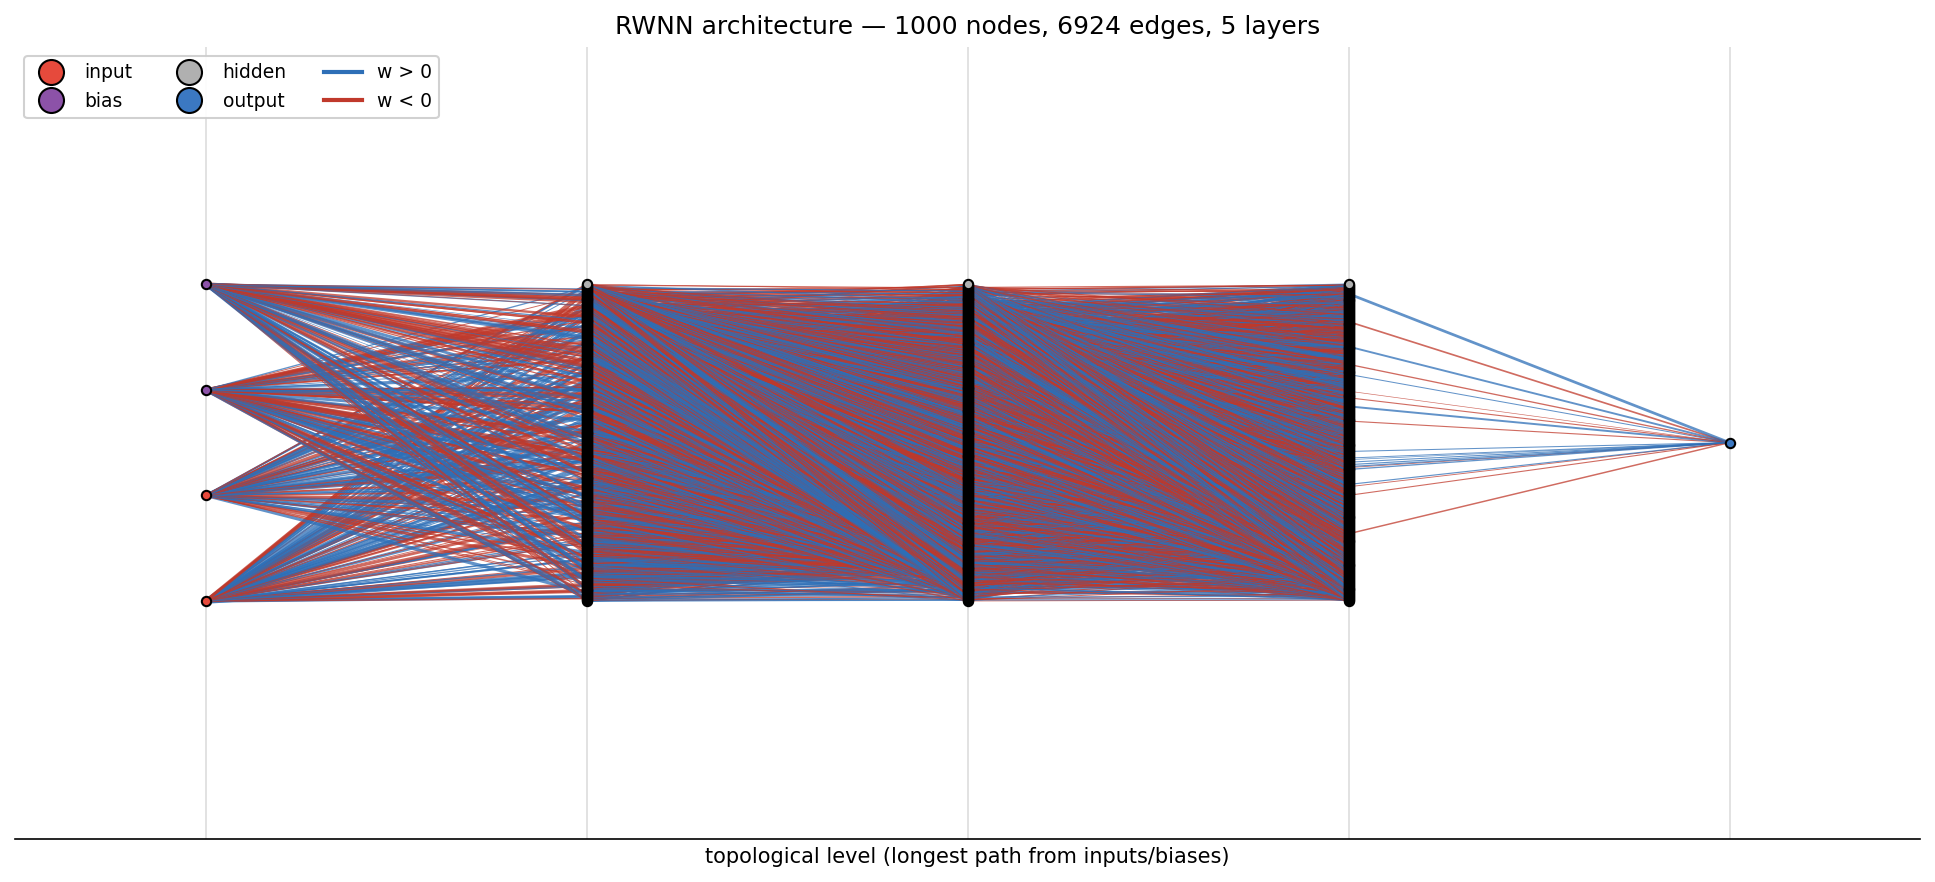
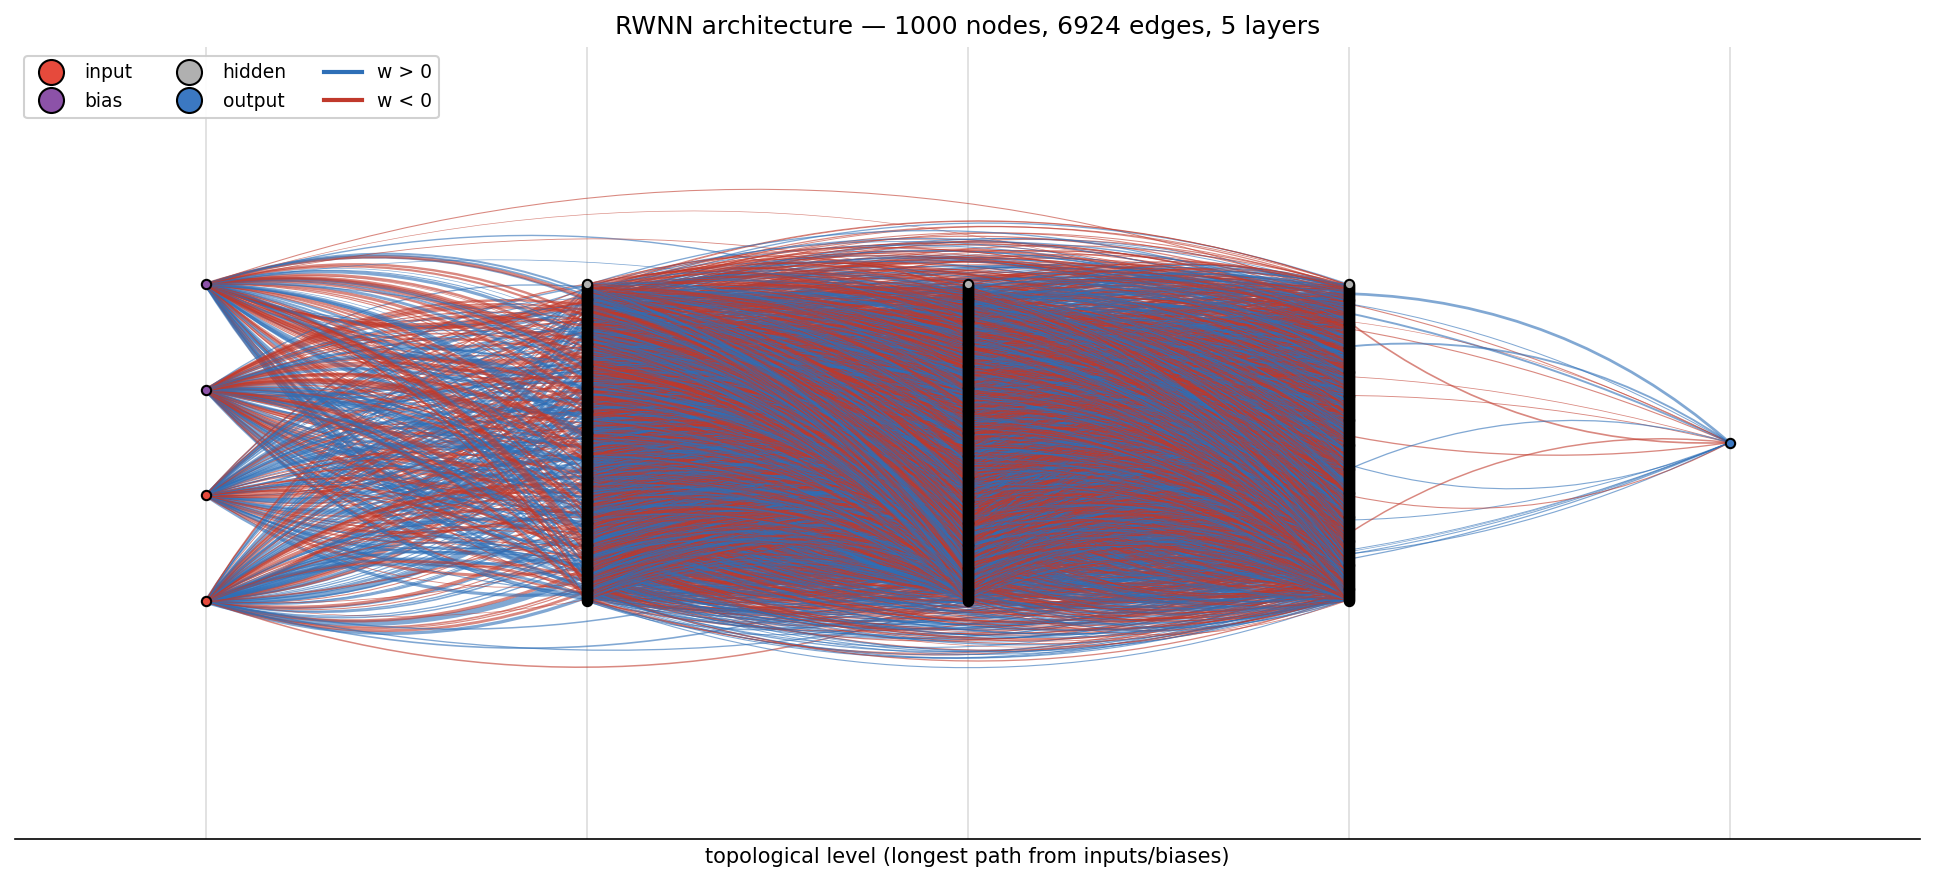
Curved non-overlapping edges in architecture render
draw_architecture now uses networkx FancyArrowPatch edges with
connectionstyle='arc3,rad=±R'. Two draw passes alternate curvature
direction by edge index parity so parallel edges between the same
two level-columns don't collapse onto a single line. No arrowheads
(feed-forward direction is obvious from the left-to-right layout).
Curvature magnitude scales down for wider graphs.

Example artifact regenerated from the full training run (seed=0,
train/test MSE 3.9e-5).

Changed region(s): [[0.093, 0.2143, 0.8992, 0.7653]]

diff --git a/Part1/src/visualize.py b/Part1/src/visualize.py
@@ -111,18 +111,39 @@ def draw_architecture(
     for ℓ in range(graph.n_levels):
         ax.axvline(ℓ, color="#DDDDDD", linewidth=0.8, zorder=0)
 
-    # Edges — styled by sign + magnitude.
-    w_arr = np.array([g.edges[e]["weight"] for e in g.edges])
+    # Edges — styled by sign + magnitude, drawn with curvature so many
+    # parallel edges between the same two columns don't collapse onto
+    # the same line. Two passes with opposite curvature, split by edge
+    # index parity, spread them out visually.
+    edges_list = list(g.edges())
+    w_arr = np.array([g.edges[e]["weight"] for e in edges_list])
     w_abs = np.abs(w_arr)
     w_max = float(w_abs.max()) if w_abs.size else 1.0
     widths = 0.3 + 2.5 * (w_abs / (w_max + 1e-12))
     edge_colors = ["#2E6FB7" if w >= 0 else "#C0392B" for w in w_arr]
 
-    nx.draw_networkx_edges(
-        g, pos, ax=ax,
-        edge_color=edge_colors, width=widths, alpha=0.75,
-        arrows=False,  # feed-forward is clear from layout; arrows clutter at scale
-    )
+    # Scale curvature down for wider graphs so the bend isn't excessive.
+    base_rad = 0.18 if graph.n_levels <= 6 else 0.12
+
+    def _pass(mask, rad):
+        if not any(mask):
+            return
+        nx.draw_networkx_edges(
+            g, pos, ax=ax,
+            edgelist=[e for e, m in zip(edges_list, mask) if m],
+            edge_color=[c for c, m in zip(edge_colors, mask) if m],
+            width=[w for w, m in zip(widths, mask) if m],
+            alpha=0.6,
+            arrows=True,          # required for connectionstyle to take effect
+            arrowstyle="-",       # no arrowhead — feed-forward is obvious
+            connectionstyle=f"arc3,rad={rad}",
+            node_size=node_size,  # so the curve starts at the node edge
+        )
+
+    even = [i % 2 == 0 for i in range(len(edges_list))]
+    odd = [not v for v in even]
+    _pass(even, +base_rad)
+    _pass(odd, -base_rad)
 
     # Nodes — colour by role.
     for role in ("input", "bias", "hidden", "output"):
